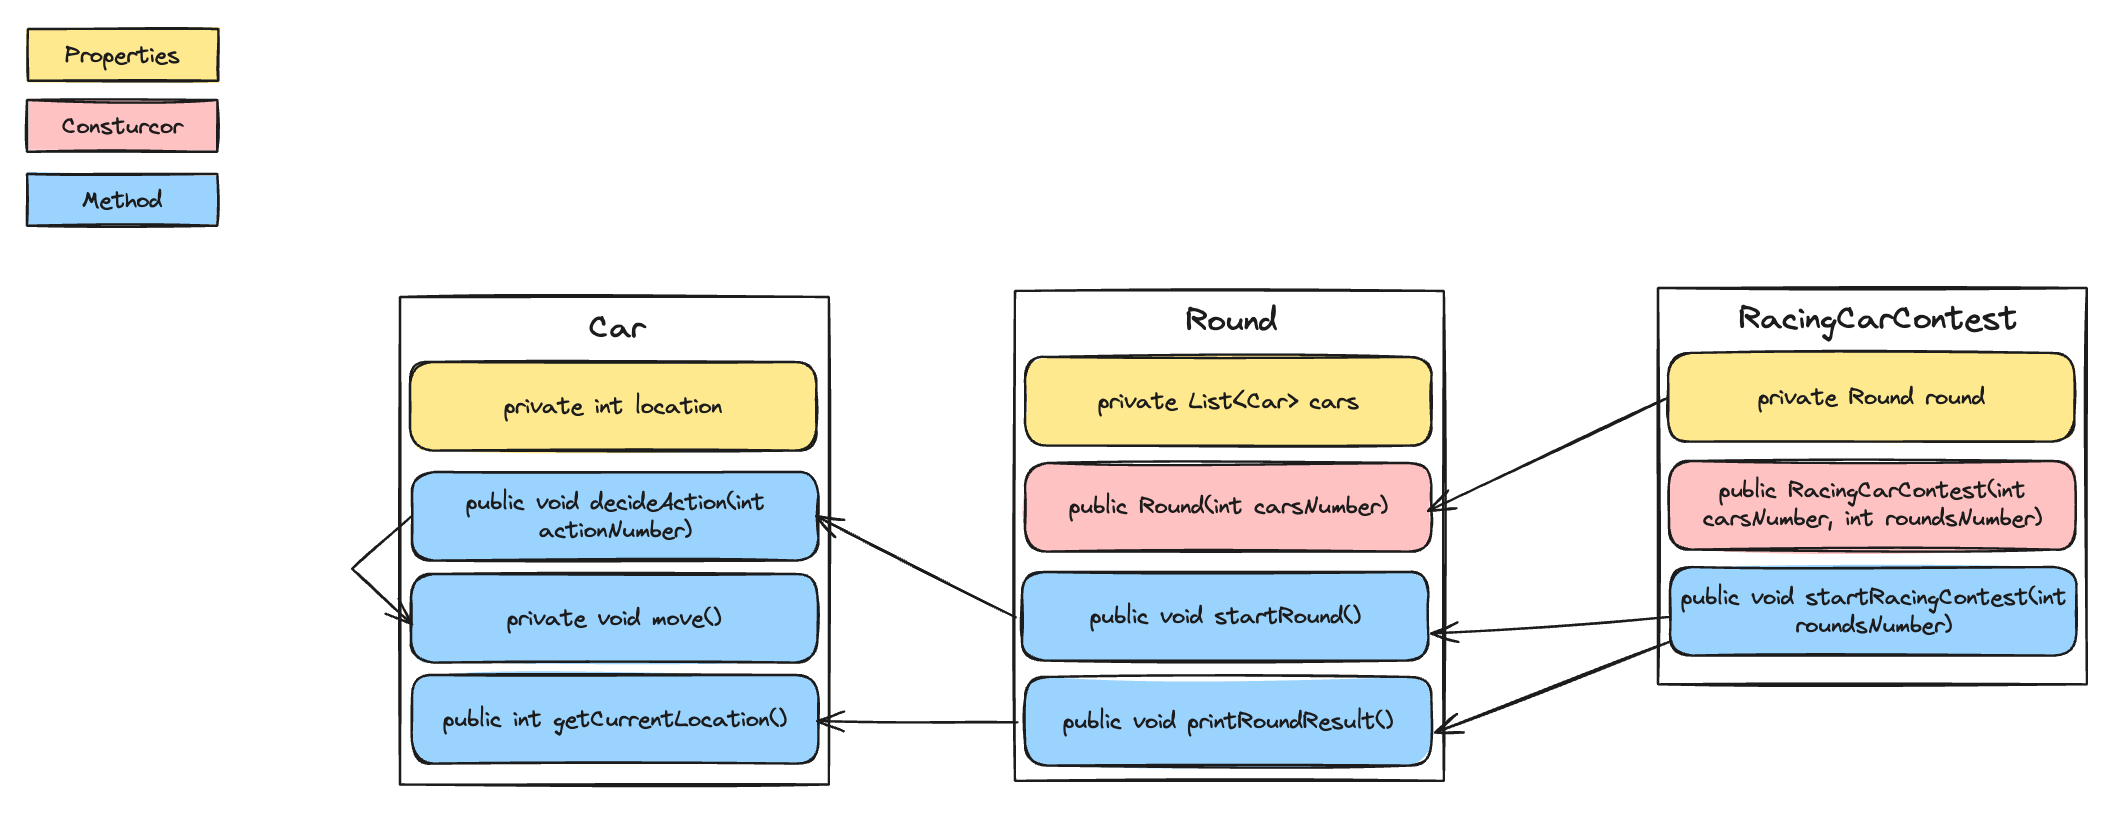
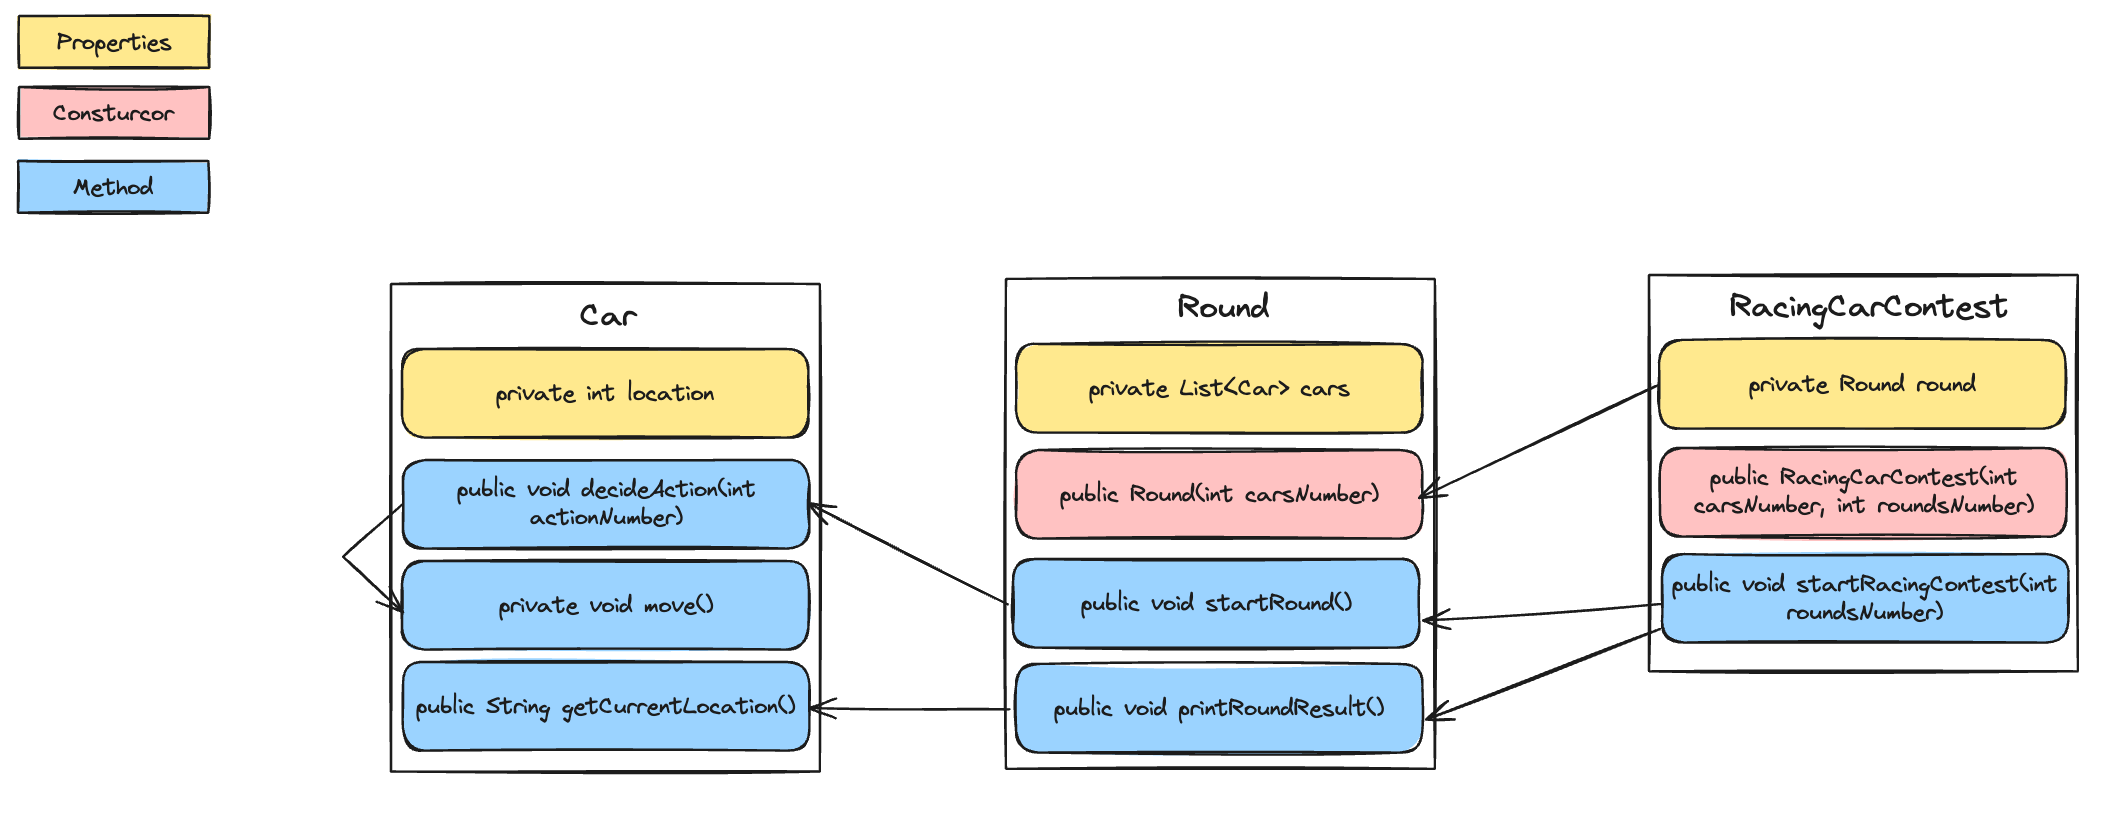
feat: Car 클래스 구현 - `Sign`을 받아 움직일지 말지 자동차가 결정한다. - 현재의 위치를 반환한다.

Changed region(s): [[0.1542, 0.3354, 1.0, 0.9756], [0.0, 0.0, 0.1233, 0.3049]]

diff --git a/src/test/java/racingcar/step3/CarTest.java b/src/test/java/racingcar/step3/CarTest.java
@@ -1,0 +1,66 @@
+package racingcar.step3;
+
+import org.junit.jupiter.api.BeforeEach;
+import org.junit.jupiter.api.DisplayName;
+import org.junit.jupiter.params.ParameterizedTest;
+import org.junit.jupiter.params.provider.CsvSource;
+import org.junit.jupiter.params.provider.ValueSource;
+
+import static org.assertj.core.api.Assertions.assertThat;
+import static org.junit.jupiter.api.Assertions.assertThrows;
+
+class CarTest {
+
+    Car car;
+
+    @BeforeEach
+    void setUp() {
+        car = new Car();
+    }
+
+    @DisplayName("파라미터 값이 0~3의 값으로 들어오면 자동차의 위치는 변경되지 않는다.")
+    @ParameterizedTest
+    @ValueSource(ints = {0, 1, 3})
+    void stopCarWhenSignBetweenZeroToThree(int Sign) {
+        // when
+        car.decideAction(Sign);
+
+        // then
+        assertThat(car.getCurrentLocation()).isEqualTo("");
+    }
+
+    @DisplayName("파라미터 값이 4이상으로 들어오면 자동차의 위치는 +1이 된다.")
+    @ParameterizedTest
+    @CsvSource(value = {"4:1:-", "5:4:----", "9:3:---"}, delimiter = ':')
+    void stopCarWhenSignBetweenZeroToThree(int Sign, int repeatCount, String carExpectedLocation) {
+        // when
+        for (int i = 0; i < repeatCount; i++) {
+            car.decideAction(Sign);
+        }
+
+        // then
+        assertThat(car.getCurrentLocation()).isEqualTo(carExpectedLocation);
+    }
+
+    @DisplayName("0~9외의 값을 입력하면 IllegalArgumentException을 던진다.")
+    @ParameterizedTest
+    @ValueSource(ints = {-1, 10, 100, -100})
+    void throwIllegalArgumentExceptionWithInvalidSign(int sign) {
+        // then
+        assertThrows(IllegalArgumentException.class, () -> car.decideAction(sign));
+    }
+
+    @DisplayName("차량의 현재 위치만큼 '-'를 출력한다.")
+    @ParameterizedTest
+    @CsvSource(value = {"3:---", "2:--", "1:-"}, delimiter = ':')
+    void printWithDashOfCurrentCarLocation(int moveCount, String visualizedCurrentLocation) {
+        // given
+        for (int i = 0; i < moveCount; i++) {
+            car.decideAction(4);
+        }
+
+        // then
+        assertThat(car.getCurrentLocation()).isEqualTo(visualizedCurrentLocation);
+    }
+
+}

diff --git a/src/main/java/racingcar/step3/Car.java b/src/main/java/racingcar/step3/Car.java
@@ -1,0 +1,32 @@
+package racingcar.step3;
+
+public class Car {
+
+    private int location;
+
+    public void decideAction(int sign) {
+        if (isMoveSign(sign)) {
+            move();
+        }
+    }
+
+    public String getCurrentLocation() {
+        return "-".repeat(this.location);
+    }
+
+    private boolean isMoveSign(int sign) {
+        validateSign(sign);
+
+        return 4 <= sign;
+    }
+
+    private void validateSign(int sign) {
+        if (sign < 0 || 9 < sign) {
+            throw new IllegalArgumentException("유효한 Sign Input이 아닙니다.");
+        }
+    }
+
+    private void move() {
+        location++;
+    }
+}

diff --git a/src/main/java/racingcar/step3/README.md b/src/main/java/racingcar/step3/README.md
@@ -27,10 +27,9 @@
 ![기능](../images/image001.png)
 
 ### class Car
-- [ ] `PROPERTY` `location` : 자동차의 현재 위치
-- [ ] `METHOD` `decideAction()` : 파라미터를 받아 움직일지 결정한다.
-- [ ] `METHOD` `move()` : 이동한다.
-- [ ] `method` `getCurrentLocation` : 현재 위치를 반환한다.
+- [x] `PROPERTY` `location` : 자동차의 현재 위치
+- [x] `METHOD` `decideAction()` : 파라미터를 받아 움직일지 결정한다.
+- [x] `METHOD` `getCurrentLocation` : 현재 위치를 반환한다.
 
 ### class Round
 - [ ] `PROPERTY` `cars` : 경주에 참여하는 자동차 리스트
